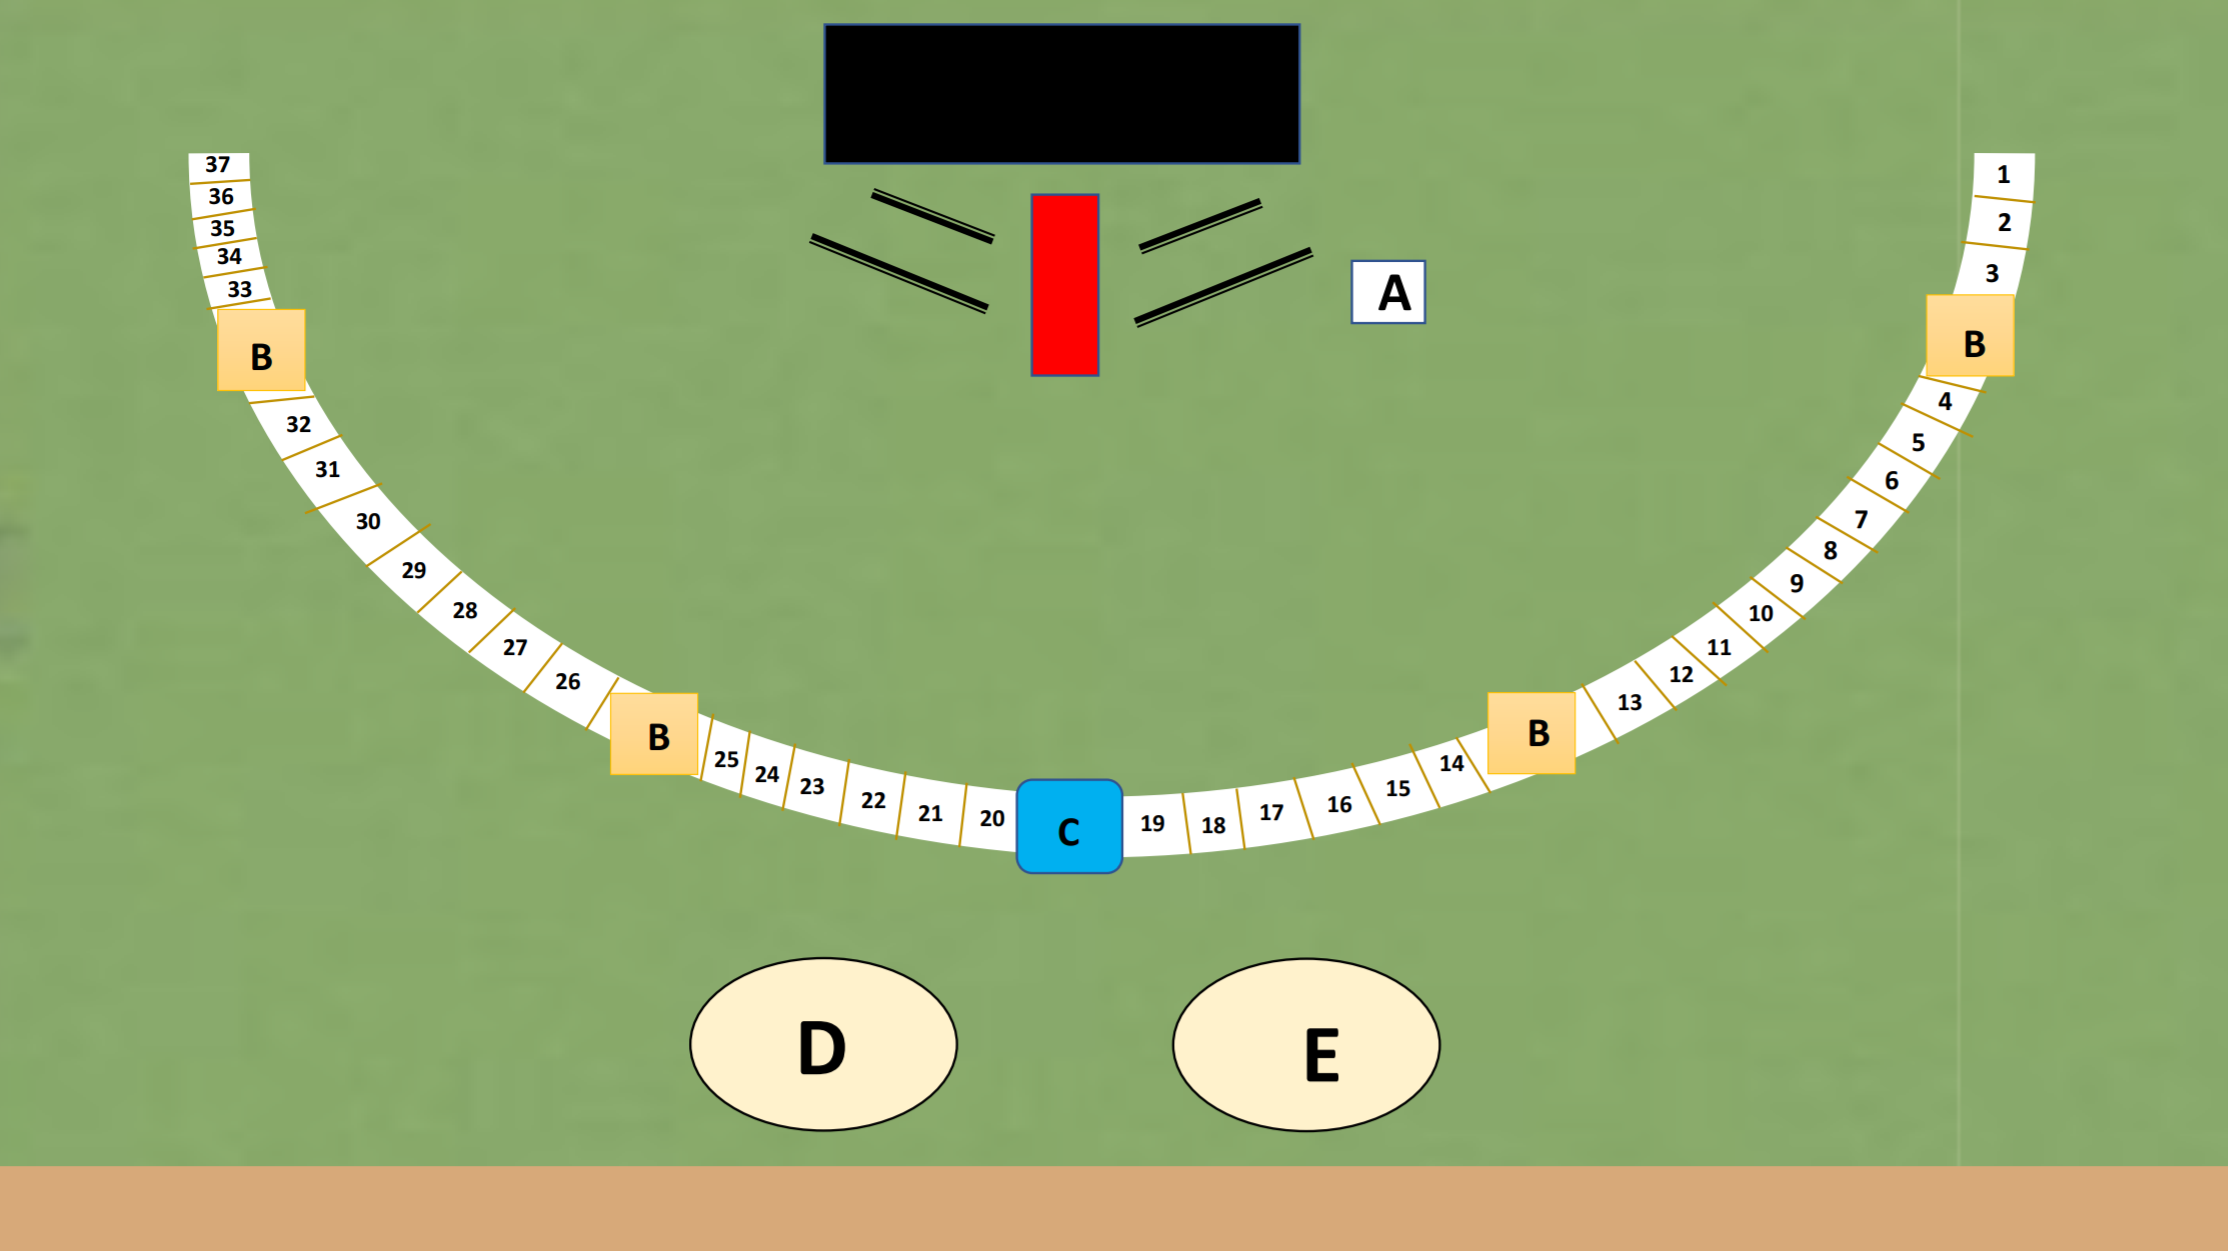
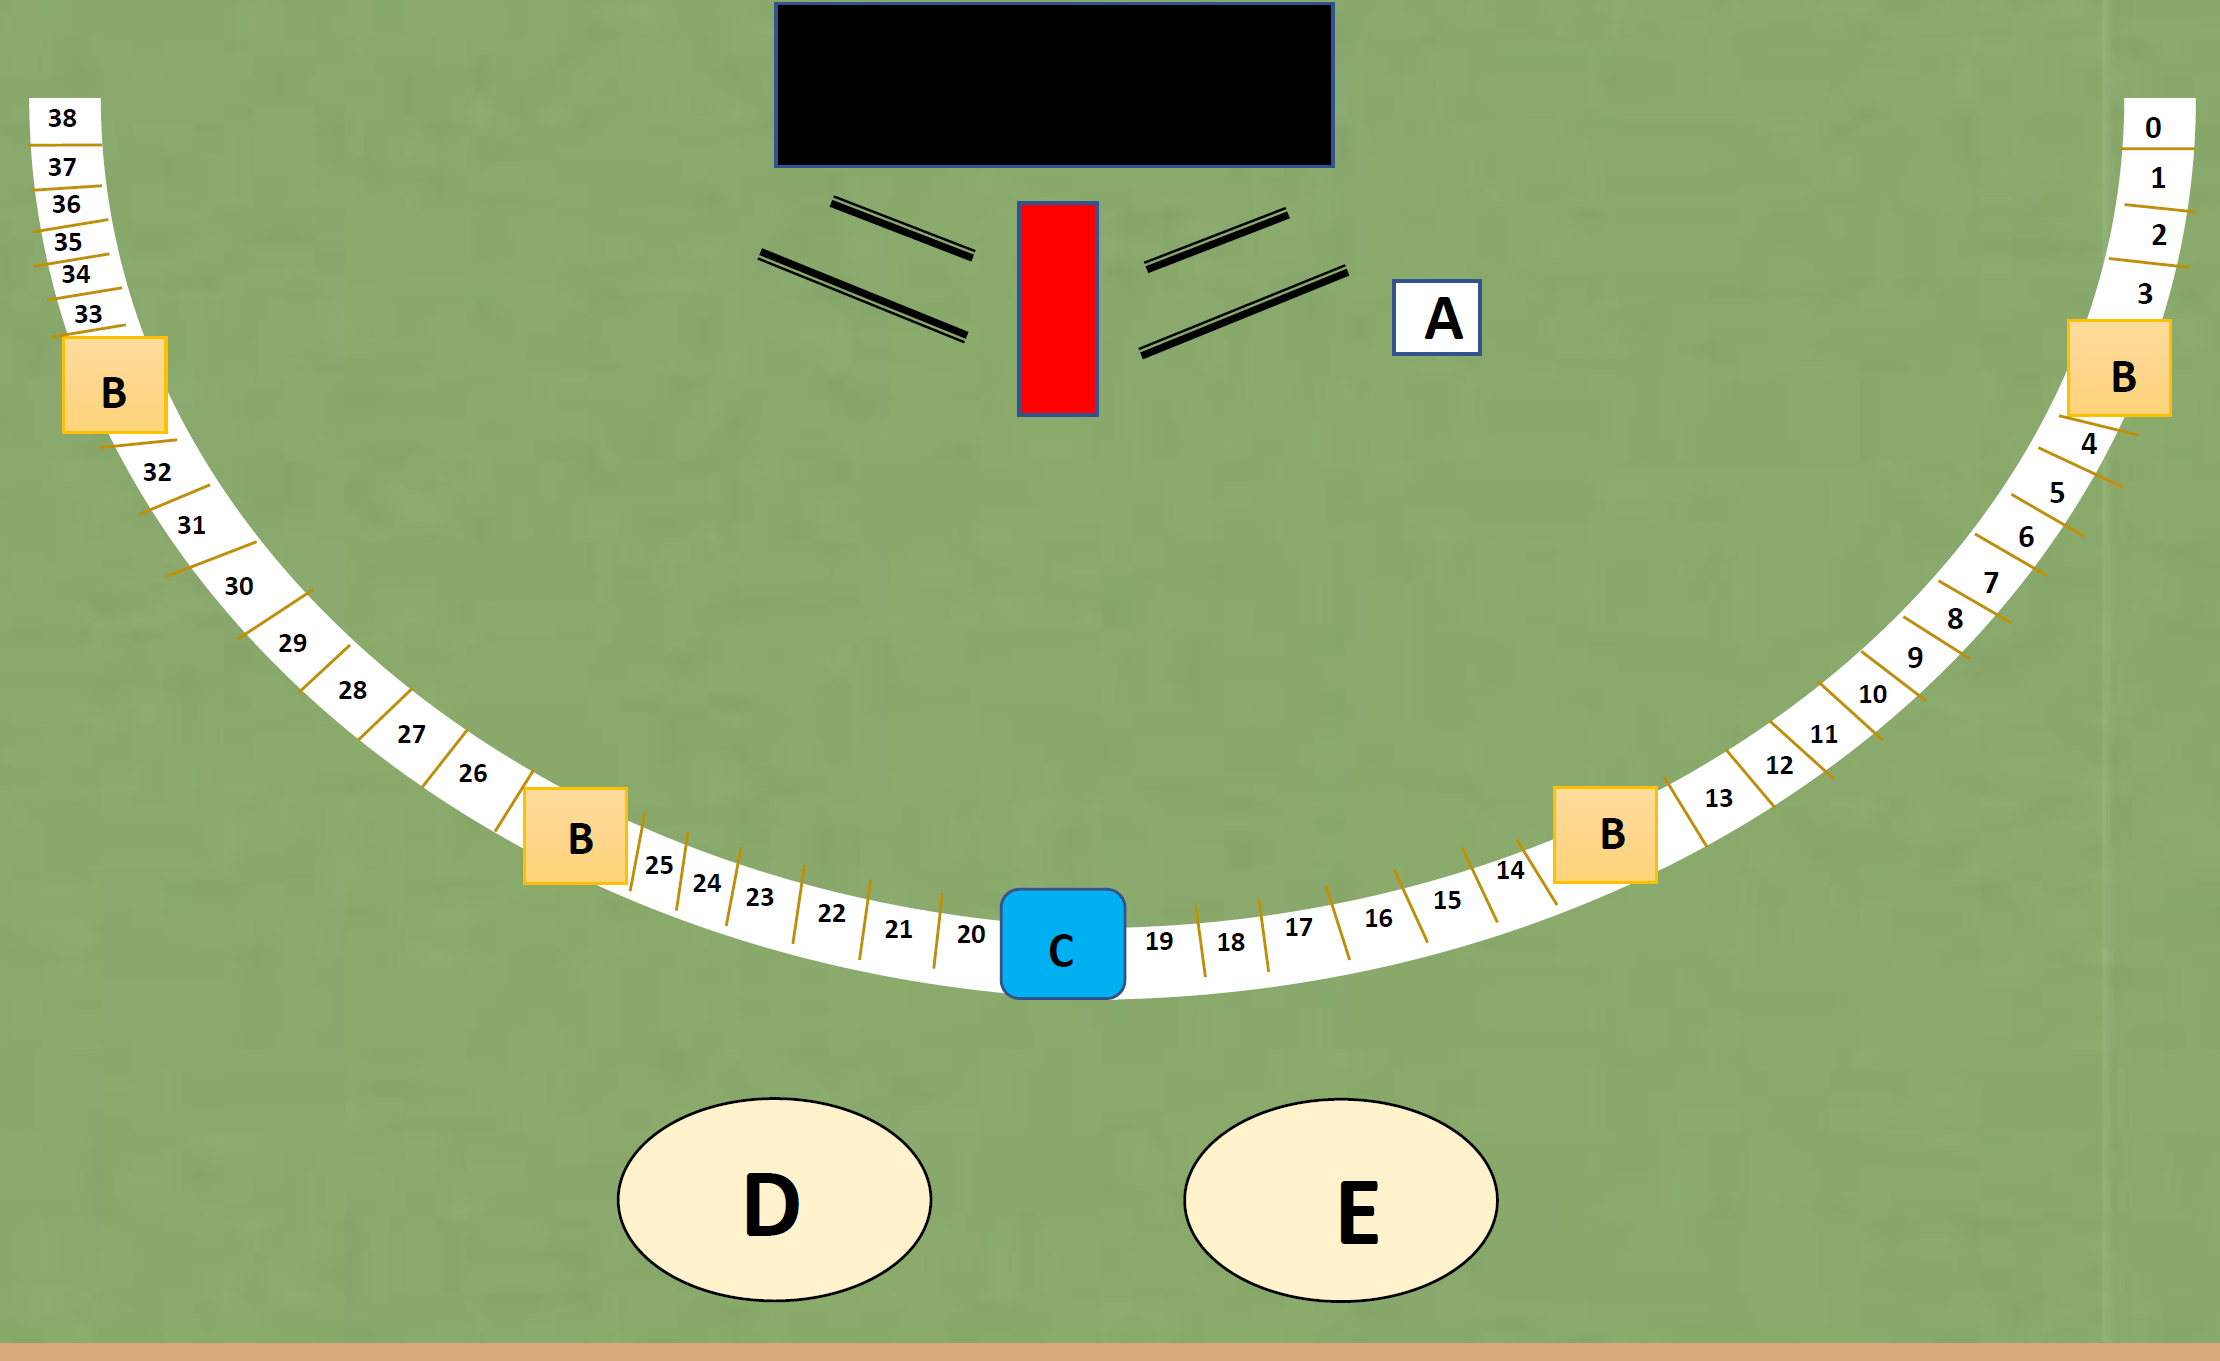
updated table list

diff --git a/video.html b/video.html
@@ -180,28 +180,28 @@
                                 <div class="panel-heading">Directory</div>
                                 <table class="table">
                                 <thead><tr><th>Organization</th><th>Table</th><th>Organization</th><th>Table</th></tr></thead> 
-                                <tr><td>African Students Association</td><td>1</td><td>Kuwait Club at ASU</td><td>23</td></tr>
-                                <tr><td>Anime Avalon</td><td>2</td><td>Muslim Students Association</td><td>24</td></tr>
-                                <tr><td>Asian/Asian Pacific American Students' Coalition</td><td>3</td><td>Nepalese Students Association</td><td>25</td></tr>
-                                <tr><td>Assyrian Student Association</td><td>4</td><td>Omani Students Group</td><td>26</td></tr>
-                                <tr><td>ASU Alumni Association</td><td>5</td><td>Pacific Islander and Asian Association</td><td>27</td></tr>
-                                <tr><td>ASU German Club</td><td>6</td><td>Peace Corps Club</td><td>28</td></tr>
-                                <tr><td>Axe Capoeira @ ASU</td><td>7</td><td>Permias Phoenix</td><td>29</td></tr>
-                                <tr><td>AZNA Dance</td><td>8</td><td>Philippines American Student Association</td><td>30</td></tr>
-                                <tr><td>Brazilian Club at ASU</td><td>9</td><td>Saudi Students Club</td><td>31</td></tr>
-                                <tr><td>Bridge of Japan-America</td><td>10</td><td>SILC Attaches</td><td>32</td></tr>
-                                <tr><td>Changemaker Central</td><td>11</td><td>Taiwanese Students Association</td><td>33</td></tr>
-                                <tr><td>Chinese Students and Scholars Association</td><td>12</td><td>The Faithful City</td><td>34</td></tr>
-                                <tr><td>El Concilio</td><td>13</td><td>Thunderbird School of Management</td><td>35</td></tr>
-                                <tr><td>Ethiophian and Eritrean Student Association</td><td>14</td><td>Vietnamese Students Union</td><td>36</td></tr>
-                                <tr><td>Falun Dafa at ASU</td><td>15</td><td>Womyn's Coalition</td><td>37</td></tr>
-                                <tr><td>French Club at ASU</td><td>16</td><td></td><td></td></tr>
-                                <tr><td>Friends of Internationals</td><td>17</td><td>photobooth</td><td>A</td></tr>
-                                <tr><td>Hawai'I &amp; Pacific Islander Club</td><td>18</td><td>Food</td><td>B</td></tr>
-                                <tr><td>Indian Students Association</td><td>19</td><td>Coalition of International Students</td><td>C</td></tr>
-                                <tr><td>Iranian Students Association</td><td>20</td><td>Inflatable</td><td>D</td></tr>
-                                <tr><td>Japanese Student Association</td><td>21</td><td>Inflatable</td><td>E</td></tr>
-                                <tr><td>Korean American Student Association</td><td>22</td><td></td><td></td></tr> 
+                                    <tr><td>Zero Waste</td><td>0</td><td>Korean American Student Association</td><td>22</td></tr>
+                                    <tr><td>African Students Association</td><td>1</td><td>Kuwait Club at ASU</td><td>23</td></tr>
+                                    <tr><td>Anime Avalon</td><td>2</td><td>Muslim Students Association</td><td>24</td></tr>
+                                    <tr><td>Asian/Asian Pacific American Students' Coalition</td><td>3</td><td>Nepalese Students Association</td><td>25</td></tr>
+                                    <tr><td>Assyrian Student Association</td><td>4</td><td>Omani Students Group</td><td>26</td></tr>
+                                    <tr><td>ASU Alumni Association</td><td>5</td><td>Pacific Islander and Asian Association</td><td>27</td></tr>
+                                    <tr><td>ASU German Club</td><td>6</td><td>Peace Corps Club</td><td>28</td></tr>
+                                    <tr><td>Axe Capoeira @ ASU</td><td>7</td><td>Permias Phoenix</td><td>29</td></tr>
+                                    <tr><td>AZNA Dance</td><td>8</td><td>Philippines American Student Association</td><td>30</td></tr>
+                                    <tr><td>Brazilian Club at ASU</td><td>9</td><td>Saudi Students Club</td><td>31</td></tr>
+                                    <tr><td>Bridge of Japan-America</td><td>10</td><td>SILC Attaches</td><td>32</td></tr>
+                                    <tr><td>Changemaker Central</td><td>11</td><td>Taiwanese Students Association</td><td>33</td></tr>
+                                    <tr><td>Chinese Students and Scholars Association</td><td>12</td><td>The Faithful City</td><td>34</td></tr>
+                                    <tr><td>El Concilio</td><td>13</td><td>Thunderbird School of Management</td><td>35</td></tr>
+                                    <tr><td>Ethiophian and Eritrean Student Association</td><td>14</td><td>Vietnamese Students Union</td><td>36</td></tr>
+                                    <tr><td>Falun Dafa at ASU</td><td>15</td><td>Womyn's Coalition</td><td>37</td></tr>
+                                    <tr><td>French Club at ASU</td><td>16</td><td>Black African Coalition</td><td>38</td></tr>
+                                    <tr><td>Friends of Internationals</td><td>17</td><td></td><td></td></tr>
+                                    <tr><td>Hawai'I &amp; Pacific Islander Club</td><td>18</td><td>Photobooth</td><td>A</td></tr>
+                                    <tr><td>Indian Students Association</td><td>19</td><td>Food</td><td>B</td></tr>
+                                    <tr><td>Iranian Students Association</td><td>20</td><td>Coalition of International Students</td><td>C</td></tr>
+                                    <tr><td>Japanese Student Association</td><td>21</td><td>Infatable</td><td>D E</td></tr>
                             </table>
                             </div>
                         </div>
